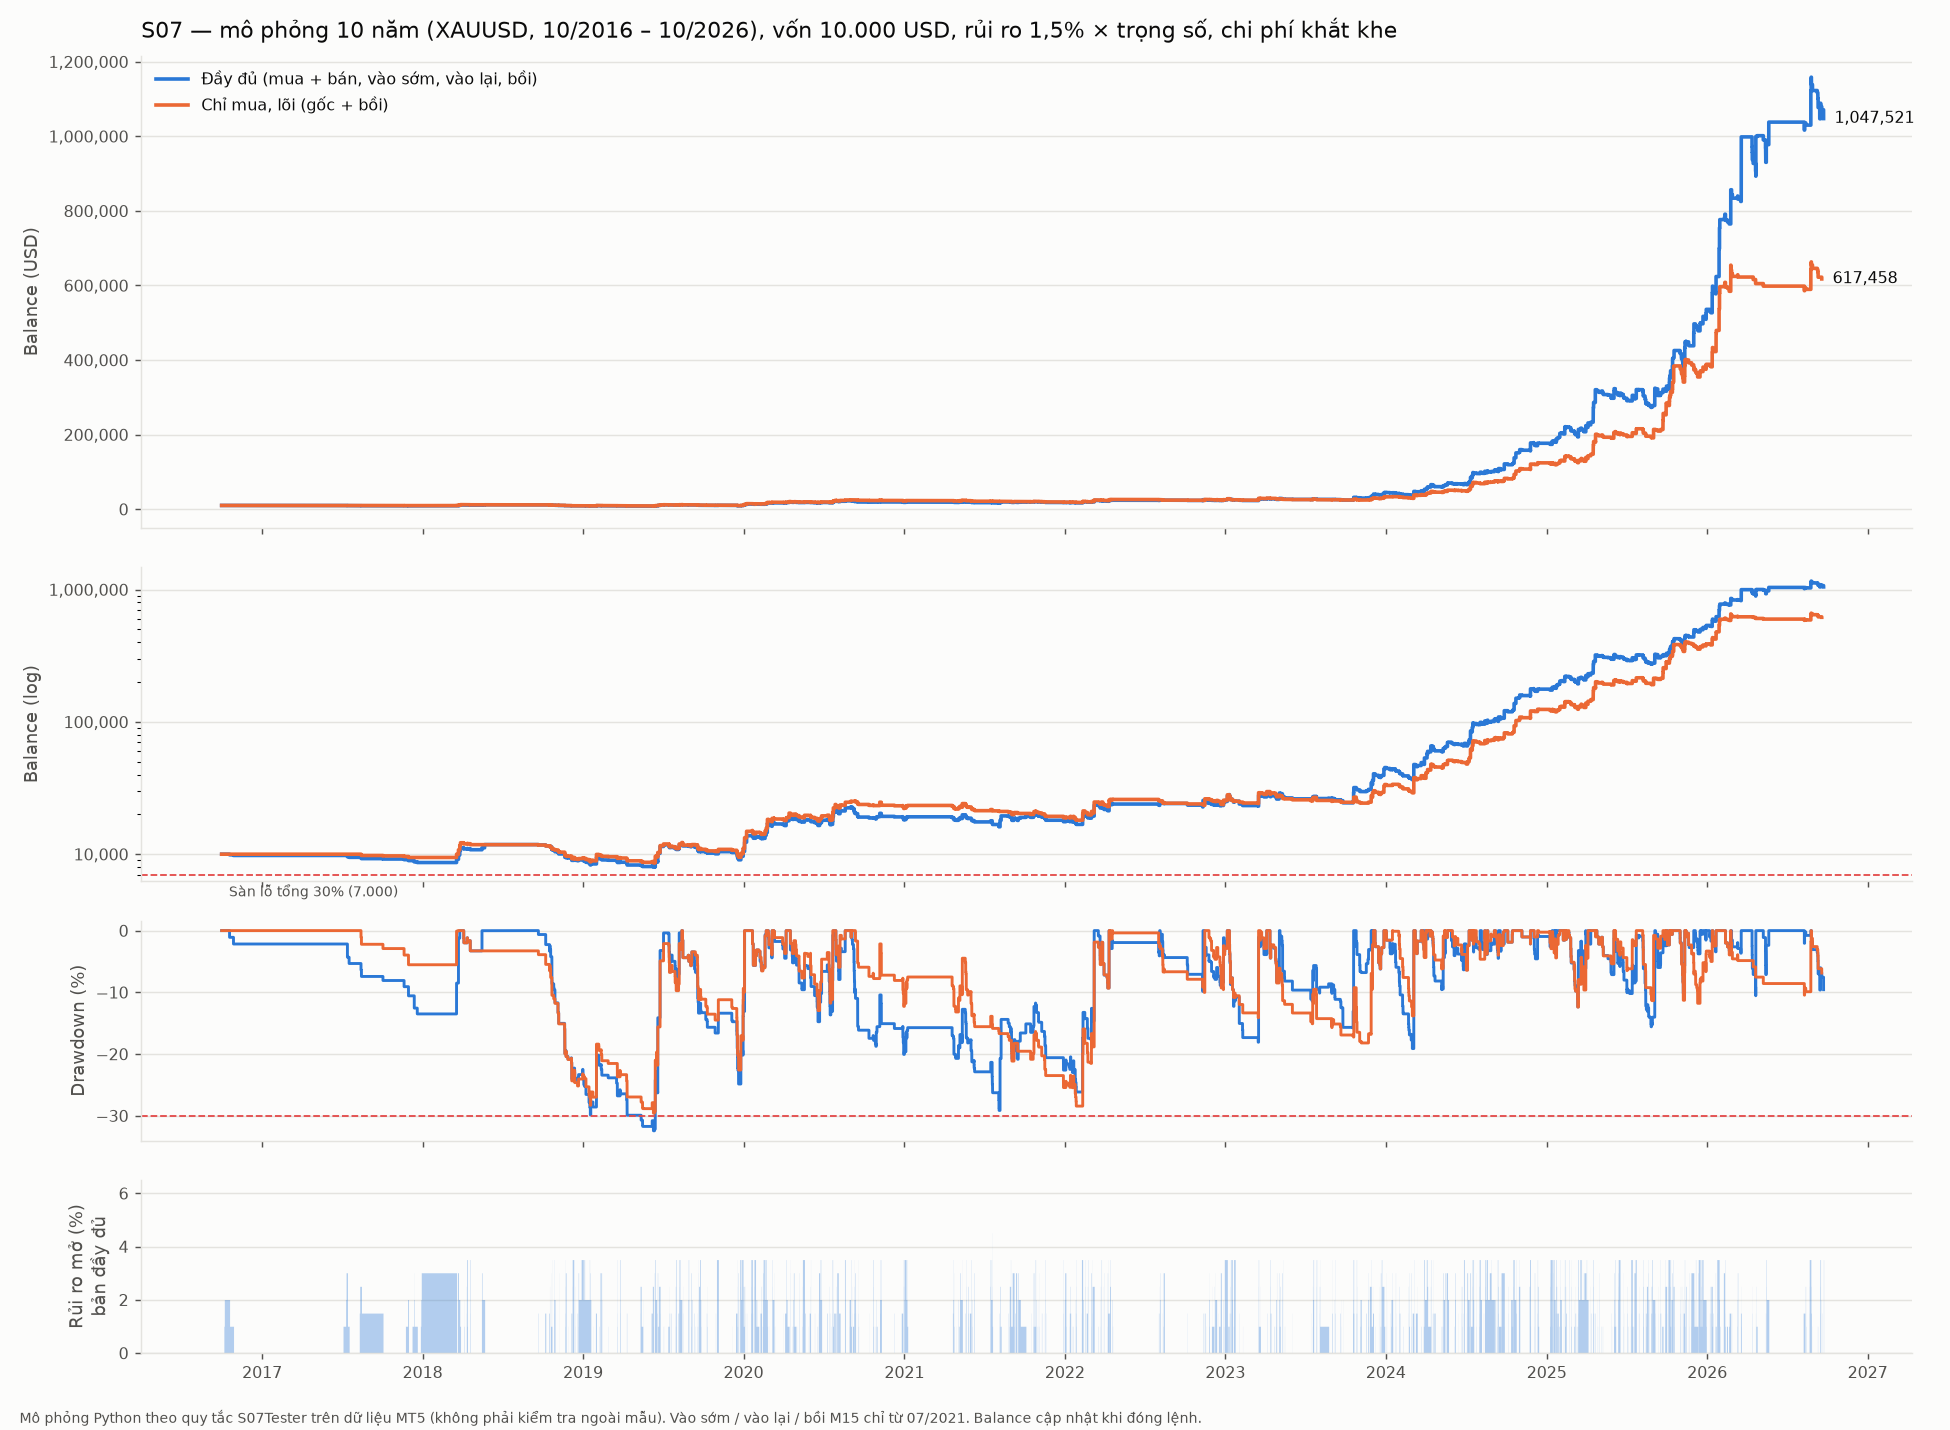
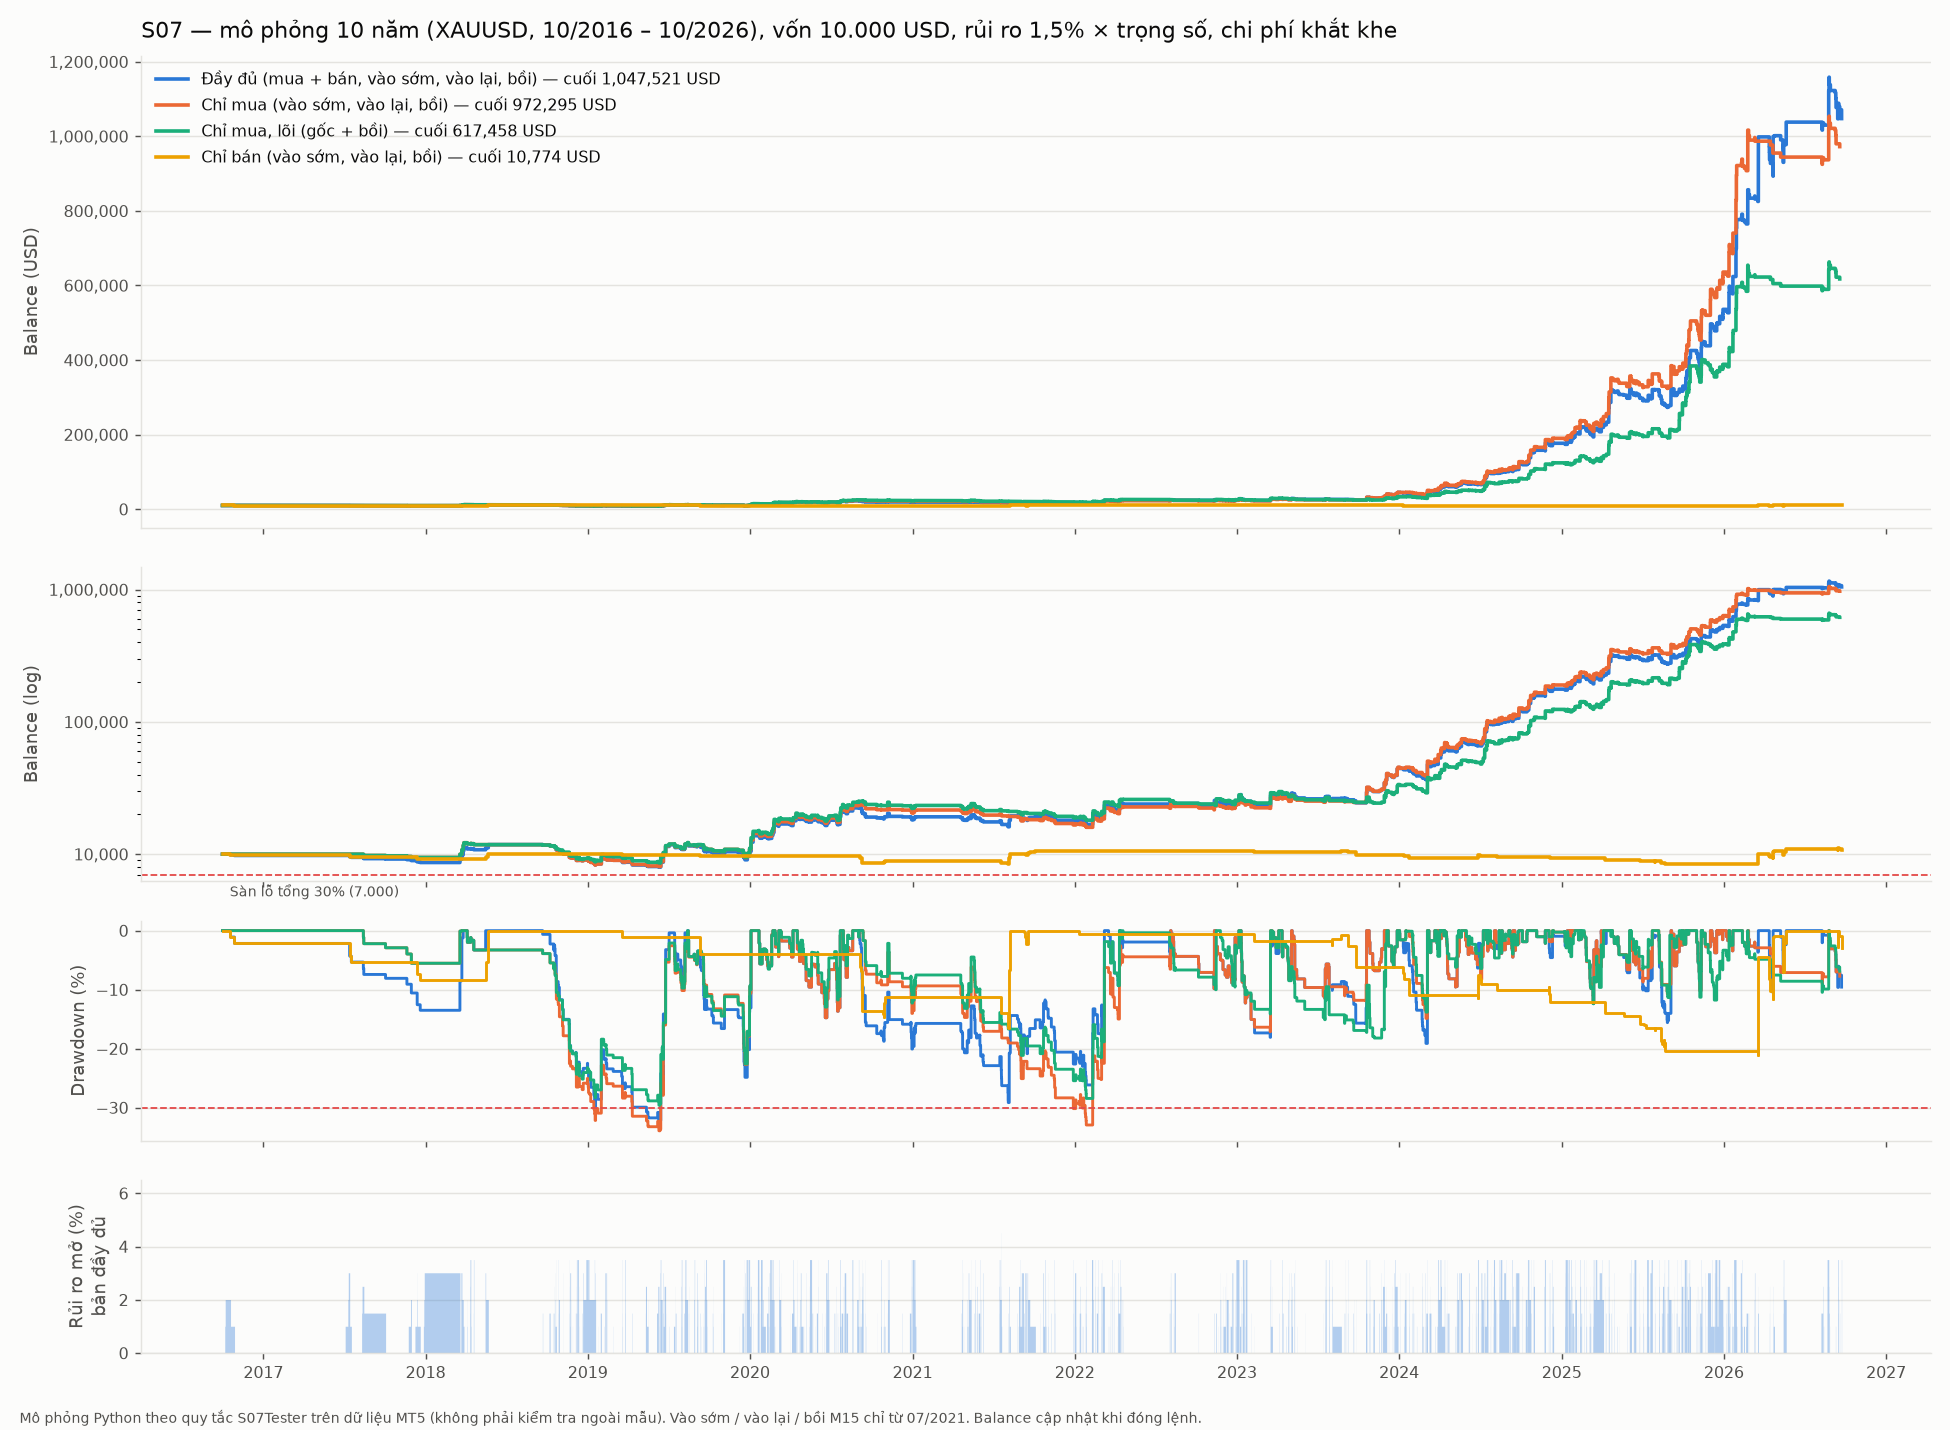
research: G89 curve with buy-only and sell-only books

diff --git a/EnterpriseEA/research/long/g89_curve.py b/EnterpriseEA/research/long/g89_curve.py
@@ -20,7 +20,7 @@ import g89_full_book as m  # noqa: E402
 OUT = m.REPORT.parent / "img" / "g89_curve.png"
 DEPOSIT = 10_000.0
 SURFACE, INK, INK2, GRID = "#fcfcfb", "#0b0b0b", "#52514e", "#e4e3df"
-S1, S2 = "#2a78d6", "#eb6834"          # reference categorical slots 1, 2
+S1, S2, S3, S4 = "#2a78d6", "#eb6834", "#1baf7a", "#eda100"   # reference categorical slots 1-4
 
 
 def series(variant):
@@ -63,21 +63,24 @@ def style(ax):
 
 def main():
     full = series(dict(sides=(1, -1), early=True, re=True, adds=True))
+    buy = series(dict(sides=(1,), early=True, re=True, adds=True))
     core = series(dict(sides=(1,), early=False, re=False, adds=True))
+    sell = series(dict(sides=(-1,), early=True, re=True, adds=True))
     fig, axes = plt.subplots(4, 1, figsize=(15, 11), sharex=True, gridspec_kw=dict(height_ratios=[3, 2, 1.4, 1.1]))
     fig.patch.set_facecolor(SURFACE)
-    names = ("Đầy đủ (mua + bán, vào sớm, vào lại, bồi)", "Chỉ mua, lõi (gốc + bồi)")
+    curves = ((full, S1, "Đầy đủ (mua + bán, vào sớm, vào lại, bồi)"),
+              (buy, S2, "Chỉ mua (vào sớm, vào lại, bồi)"),
+              (core, S3, "Chỉ mua, lõi (gốc + bồi)"),
+              (sell, S4, "Chỉ bán (vào sớm, vào lại, bồi)"))
     for ax in axes:
         style(ax)
     # balance, linear (like the MT5 tester) and log
-    for k, (s, col, name) in enumerate(((full, S1, names[0]), (core, S2, names[1]))):
+    for k, (s, col, name) in enumerate(curves):
         t, bal, dd, _ = s
         x = dt(t)
-        axes[0].step(x, bal, where="post", color=col, linewidth=2, label=name)
+        axes[0].step(x, bal, where="post", color=col, linewidth=2, label=f"{name} — cuối {bal[-1]:,.0f} USD")
         axes[1].step(x, bal, where="post", color=col, linewidth=2)
         axes[2].step(x, dd, where="post", color=col, linewidth=1.6)
-        axes[0].annotate(f"{bal[-1]:,.0f}", (x[-1], bal[-1]), xytext=(6, 0), textcoords="offset points",
-                         color=INK, fontsize=9, va="center")
     axes[0].set_title("S07 — mô phỏng 10 năm (XAUUSD, 10/2016 – 10/2026), vốn 10.000 USD, rủi ro 1,5% × trọng số, chi phí khắt khe",
                       loc="left", color=INK, fontsize=12, pad=10)
     axes[0].set_ylabel("Balance (USD)", color=INK2)
